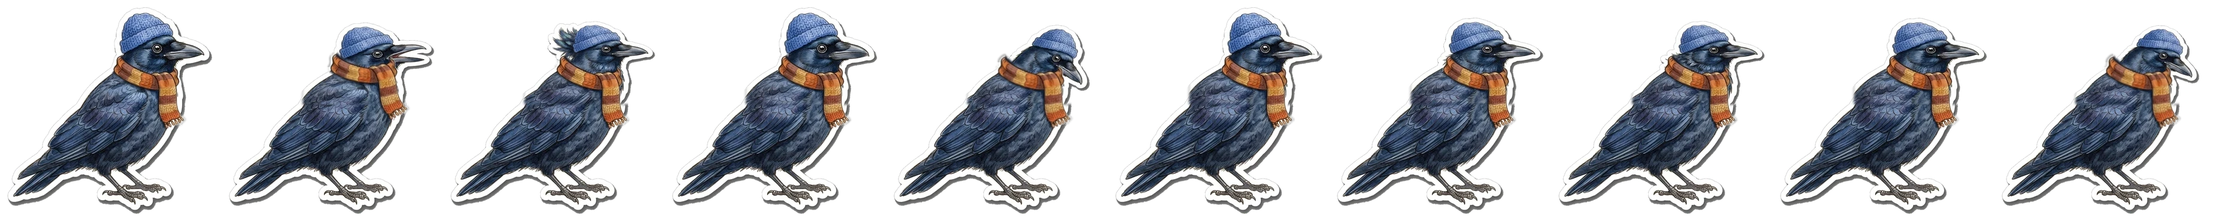
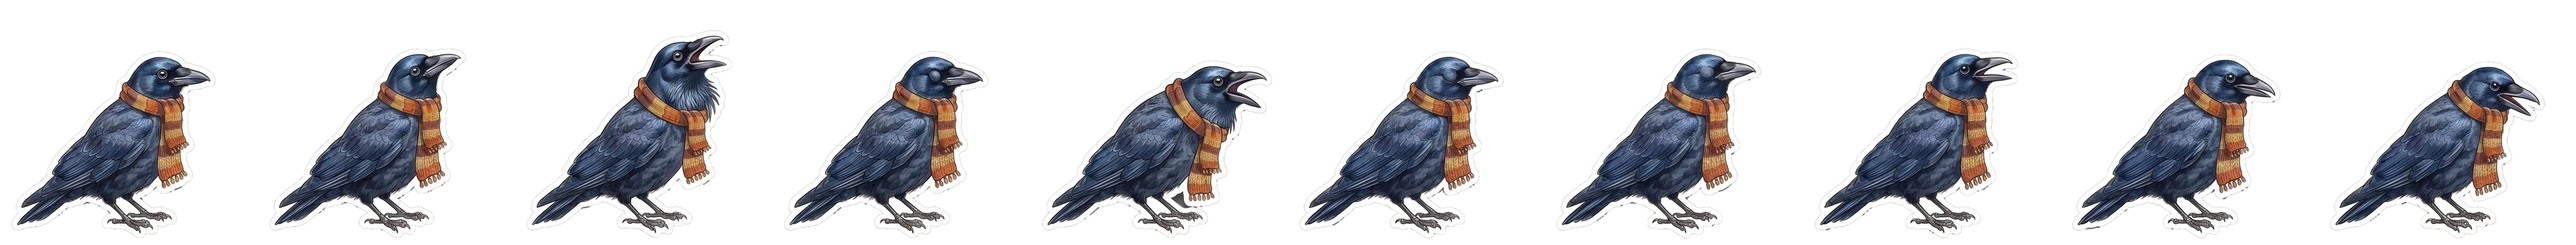
feat(world): repaint Button and make his knitted cap his first outfit (#224)
Button's blue knitted cap was painted into his base art, like the first
three friends' signature pieces. His sitting sticker is repainted cap-free
and his five outfits are repainted on the clean base. The cap becomes a
head item with its own look, idle and hop, and a standalone wardrobe
sticker (wardrobe-suites/crow/knit-cap.png), listed first in suits.json
and anchored in wardrobe-anchors.json; export-wardrobe.py and
export-looks.py regenerate wardrobe.json and looks.json.

The shipped idle and hop were redrawn rather than reused. The idle is new:
two caws, a blink and a curious glance, drawn from the approved still so
only the head changes between frames. The hop keeps the old poses with
Button repainted to match the still. Every outfit is painted on those.

The idle cell grows from 370x369 to 430x409 and the hop cell from 338x346
to 366x376, with the feet moved to match, so he stays the same size on
the path. The sitting stickers share a new 470x480 canvas with headroom
for hats, and his wardrobe anchors are moved onto it.

The knitted cap is his starting item. Tests that needed a friend with no
starting item now use Marmalade.

Changed region(s): [[0.0, 0.0596, 0.9946, 0.9539]]

diff --git a/HopTalesPackage/Tests/AppFeatureTests/WardrobeTests.swift b/HopTalesPackage/Tests/AppFeatureTests/WardrobeTests.swift
@@ -11,45 +11,45 @@ struct WardrobeFeatureTests {
   nonisolated private static var progress: Content.Progress {
     var basket = Basket()
     basket.filled = 4
-    return Content.Progress(journey: Journey(starting: .crow), baskets: [.crow: basket])
+    return Content.Progress(journey: Journey(starting: .cat), baskets: [.cat: basket])
   }
 
   @Test func everyItemIsInOneGridAndTappingSwapsTheLook() async {
     let saved = LockIsolated(Self.progress)
-    let store = TestStore(initialState: Wardrobe.State(friend: .crow)) {
+    let store = TestStore(initialState: Wardrobe.State(friend: .cat)) {
       Wardrobe()
         .dependency(ProgressStore(load: { saved.value }, save: { saved.setValue($0) }))
     } changes: {
       $0.progress = Self.progress
     }
-    let items = WardrobeLibrary.items(for: .crow)
+    let items = WardrobeLibrary.items(for: .cat)
     #expect(store.state.items == items)
 
     store.send(.itemTapped(items[0])) {
-      $0.progress.outfits[.crow] = [items[0].slot: items[0].id]
+      $0.progress.outfits[.cat] = [items[0].slot: items[0].id]
     }
     store.send(.itemTapped(items[1])) {
-      $0.progress.outfits[.crow] = [items[1].slot: items[1].id]
+      $0.progress.outfits[.cat] = [items[1].slot: items[1].id]
     }
-    #expect(saved.value.outfit(for: .crow) == [items[1]])
+    #expect(saved.value.outfit(for: .cat) == [items[1]])
     await store.dismount()
   }
 
   @Test func tappingTheWornItemOrJustMeTakesTheLookOff() async {
     let saved = LockIsolated(Self.progress)
-    let store = TestStore(initialState: Wardrobe.State(friend: .crow)) {
+    let store = TestStore(initialState: Wardrobe.State(friend: .cat)) {
       Wardrobe()
         .dependency(ProgressStore(load: { saved.value }, save: { saved.setValue($0) }))
     } changes: {
       $0.progress = Self.progress
     }
-    let item = WardrobeLibrary.items(for: .crow)[0]
+    let item = WardrobeLibrary.items(for: .cat)[0]
 
-    store.send(.itemTapped(item)) { $0.progress.outfits[.crow] = [item.slot: item.id] }
-    store.send(.itemTapped(item)) { $0.progress.outfits[.crow] = [:] }
-    store.send(.itemTapped(item)) { $0.progress.outfits[.crow] = [item.slot: item.id] }
-    store.send(.justMeTapped) { $0.progress.outfits[.crow] = [:] }
-    #expect(saved.value.outfit(for: .crow).isEmpty)
+    store.send(.itemTapped(item)) { $0.progress.outfits[.cat] = [item.slot: item.id] }
+    store.send(.itemTapped(item)) { $0.progress.outfits[.cat] = [:] }
+    store.send(.itemTapped(item)) { $0.progress.outfits[.cat] = [item.slot: item.id] }
+    store.send(.justMeTapped) { $0.progress.outfits[.cat] = [:] }
+    #expect(saved.value.outfit(for: .cat).isEmpty)
     await store.dismount()
   }
 
@@ -125,6 +125,27 @@ struct WardrobeFeatureTests {
     #expect(saved.value.outfit(for: .frog) == [hat])
     store.send(.justMeTapped) { $0.progress.outfits[.frog] = [:] }
     #expect(saved.value.outfit(for: .frog).isEmpty)
+    await store.dismount()
+  }
+
+  @Test func buttonWearsHisKnitCapUntilSomethingElseIsChosen() async throws {
+    let fresh = Content.Progress(journey: Journey(starting: .crow))
+    let saved = LockIsolated(fresh)
+    let store = TestStore(initialState: Wardrobe.State(friend: .crow)) {
+      Wardrobe()
+        .dependency(ProgressStore(load: { saved.value }, save: { saved.setValue($0) }))
+    } changes: {
+      $0.progress = fresh
+    }
+    let items = WardrobeLibrary.items(for: .crow)
+    let cap = try #require(items.first { $0.id == "knit-cap" })
+    let flatCap = try #require(items.first { $0.id == "flat-cap" })
+    #expect(store.state.outfit == [cap])
+
+    store.send(.itemTapped(flatCap)) { $0.progress.outfits[.crow] = [.head: flatCap.id] }
+    #expect(saved.value.outfit(for: .crow) == [flatCap])
+    store.send(.justMeTapped) { $0.progress.outfits[.crow] = [:] }
+    #expect(saved.value.outfit(for: .crow).isEmpty)
     await store.dismount()
   }
 }

diff --git a/HopTalesPackage/Tests/ContentTests/WardrobeTests.swift b/HopTalesPackage/Tests/ContentTests/WardrobeTests.swift
@@ -10,15 +10,16 @@ struct WardrobeTests {
     }
   }
 
-  @Test func everyFriendUnlocksFiveOfTheirWardrobeAndBobSkipAndOggyStartWithAnother() {
+  @Test func everyFriendUnlocksFiveOfTheirWardrobeAndTheFirstFourStartWithAnother() {
     #expect(WardrobeLibrary.all[.hare]?.count == 13)
     #expect(WardrobeLibrary.all[.bunny]?.count == 9)
     #expect(WardrobeLibrary.all[.frog]?.count == 9)
+    #expect(WardrobeLibrary.all[.crow]?.count == 9)
     for friend in Friend.allCases {
       let starts = WardrobeLibrary.starting[friend] != nil
       #expect(WardrobeLibrary.items(for: friend).count == (starts ? 6 : 5), "\(friend)")
       #expect(WardrobeLibrary.unlockable(for: friend).count == 5, "\(friend)")
-      if friend != .hare, friend != .bunny, friend != .frog {
+      if ![Friend.hare, .bunny, .frog, .crow].contains(friend) {
         #expect(WardrobeLibrary.all[friend]?.count == 8, "\(friend)")
       }
     }
@@ -35,21 +36,22 @@ struct WardrobeTests {
   }
 
   @Test func onlyUnlockedItemsCanBeWornAndOneItemPerSlot() throws {
-    var progress = Progress(journey: Journey(starting: .crow))
-    let items = WardrobeLibrary.items(for: .crow)
-    progress.wear(items[1], on: .crow)
-    #expect(progress.outfit(for: .crow).isEmpty)
-    progress.wear(items[0], on: .crow)
-    #expect(progress.outfit(for: .crow) == [items[0]])
-    progress.baskets[.crow, default: Basket()].filled = 1
-    progress.wear(items[1], on: .crow)
-    #expect(progress.outfit(for: .crow) == [items[1]])
-    progress.takeOff(items[1].slot, from: .crow)
-    #expect(progress.outfit(for: .crow).isEmpty)
+    var progress = Progress(journey: Journey(starting: .cat))
+    let items = WardrobeLibrary.items(for: .cat)
+    progress.wear(items[1], on: .cat)
+    #expect(progress.outfit(for: .cat).isEmpty)
+    progress.wear(items[0], on: .cat)
+    #expect(progress.outfit(for: .cat) == [items[0]])
+    progress.baskets[.cat, default: Basket()].filled = 1
+    progress.wear(items[1], on: .cat)
+    #expect(progress.outfit(for: .cat) == [items[1]])
+    progress.takeOff(items[1].slot, from: .cat)
+    #expect(progress.outfit(for: .cat).isEmpty)
   }
 
   @Test(arguments: [
-    (Friend.bunny, "bow", Slot.head), (.hare, "scarf", .neck), (.frog, "neckerchief", .neck)
+    (Friend.bunny, "bow", Slot.head), (.hare, "scarf", .neck), (.frog, "neckerchief", .neck),
+    (.crow, "knit-cap", .head)
   ])
   func startingItemsAreWornUntilSomethingElseIsChosen(
     friend: Friend, id: String, slot: Slot
@@ -62,8 +64,8 @@ struct WardrobeTests {
     let fresh = Progress()
     #expect(fresh.isUnlocked(item, for: friend))
     #expect(fresh.outfit(for: friend) == [item])
-    #expect(WardrobeLibrary.startingItem(for: .crow) == nil)
-    #expect(Progress(journey: Journey(starting: .crow)).outfit(for: .crow).isEmpty)
+    #expect(WardrobeLibrary.startingItem(for: .cat) == nil)
+    #expect(Progress(journey: Journey(starting: .cat)).outfit(for: .cat).isEmpty)
   }
 
   @Test func startingItemsLeaveTheUnlockOrderAlone() throws {

diff --git a/HopTalesPackage/Sources/Content/Wardrobe.swift b/HopTalesPackage/Sources/Content/Wardrobe.swift
@@ -60,7 +60,7 @@ public enum WardrobeLibrary {
     .hare: ["scarf", "straw", "bowtie", "crown", "specs", "satchel"],
     .bunny: ["bow", "bluebell-crown", "bonnet", "heart-glasses", "daisy-chain", "basket-pack"],
     .frog: ["neckerchief", "lilypad-hat", "goggles", "check-bowtie", "reed-satchel", "raincoat"],
-    .crow: ["flat-cap", "top-hat", "aviator-goggles", "autumn-scarf", "post-satchel"],
+    .crow: ["knit-cap", "flat-cap", "top-hat", "aviator-goggles", "autumn-scarf", "post-satchel"],
     .cat: ["garden-hat", "beret", "cateye-glasses", "red-bell-collar", "cardigan"],
     .crab: ["sailor-cap", "captain-hat", "diving-mask", "claw-mittens", "chest-pack"],
     .grasshopper: [
@@ -69,7 +69,7 @@ public enum WardrobeLibrary {
   ]
 
   public static let starting: [Friend: String] = [
-    .bunny: "bow", .hare: "scarf", .frog: "neckerchief"
+    .bunny: "bow", .hare: "scarf", .frog: "neckerchief", .crow: "knit-cap"
   ]
 
   @TaskLocal public static var painted: [Friend: Set<String>] = {

diff --git a/HopTalesPackage/Sources/World/HareArt.swift b/HopTalesPackage/Sources/World/HareArt.swift
@@ -93,10 +93,10 @@ public struct SpriteSheet: Equatable, Sendable {
     ),
     .crow: (
       .idle(
-        "crow-idle-frames", cell: CGSize(width: 370, height: 369), feet: CGPoint(x: 227, y: 357)
+        "crow-idle-frames", cell: CGSize(width: 430, height: 409), feet: CGPoint(x: 235, y: 397)
       ),
       .hop(
-        "crow-hop", cell: CGSize(width: 338, height: 346), feet: CGPoint(x: 166, y: 336),
+        "crow-hop", cell: CGSize(width: 366, height: 376), feet: CGPoint(x: 181, y: 367),
         standing: 259
       )
     ),
